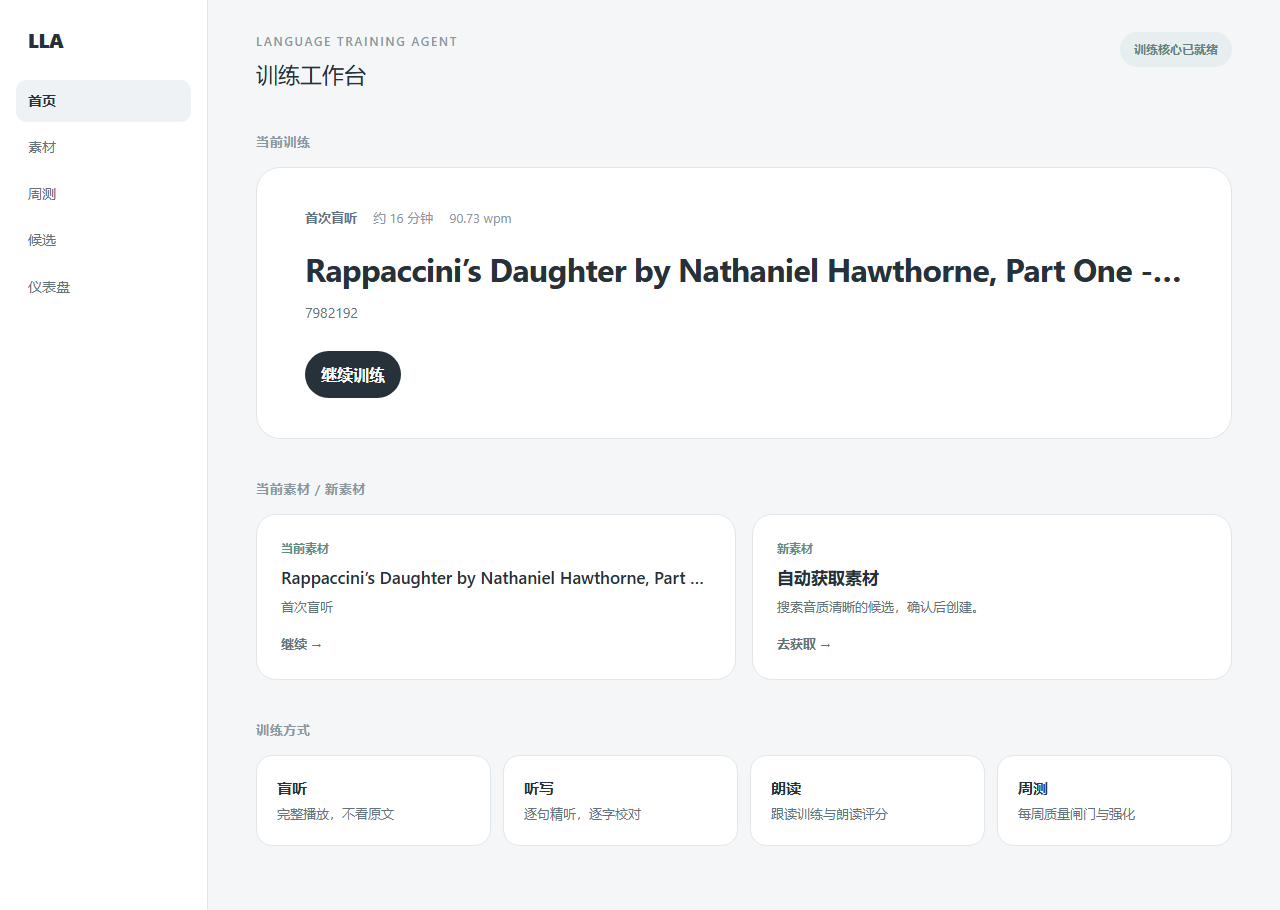
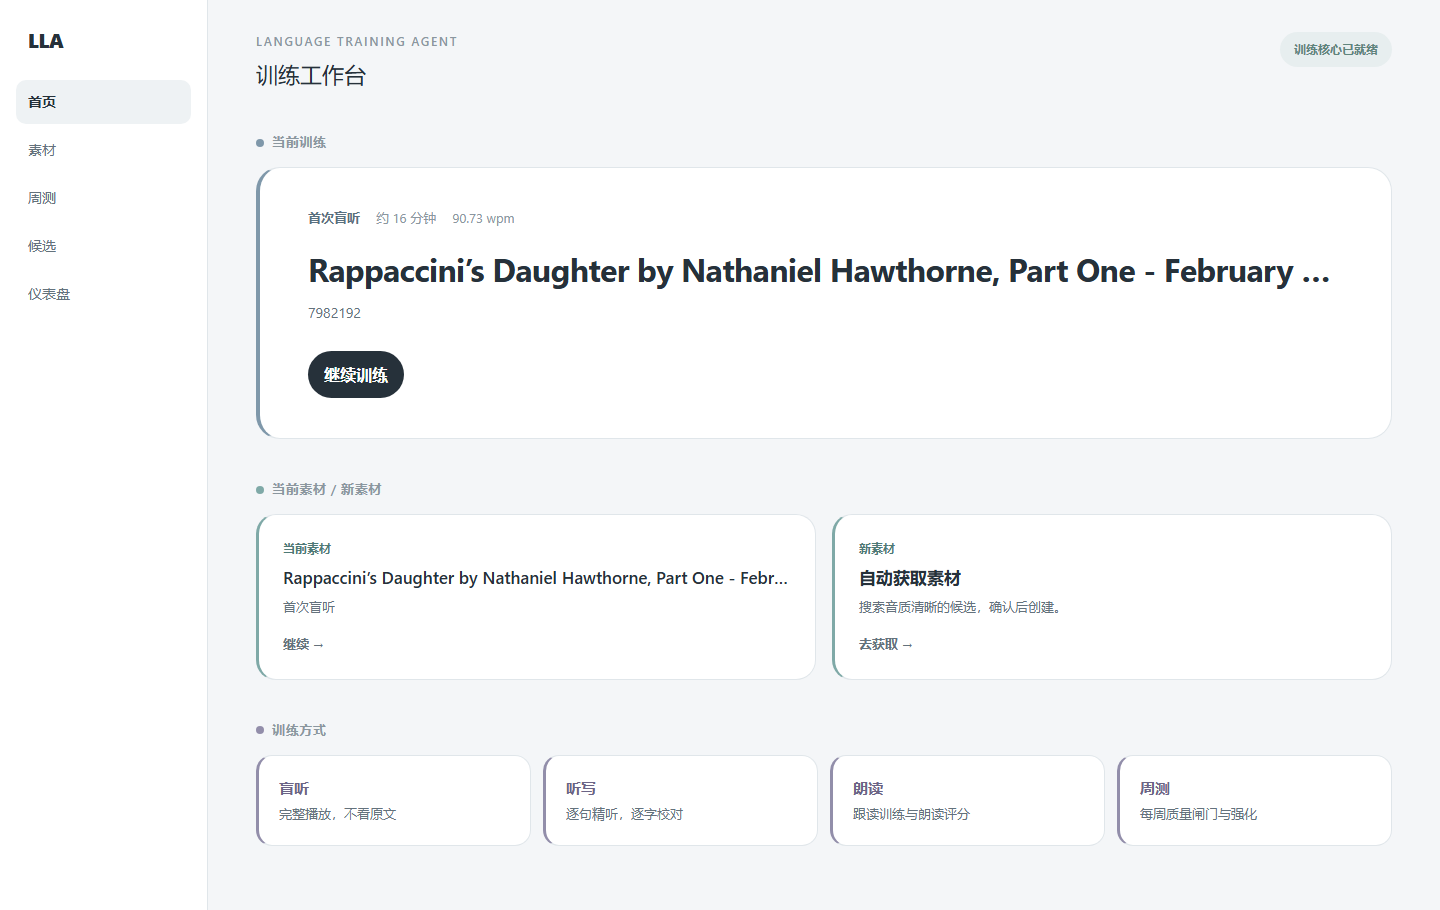
fix: apply accent color tokens, focus ring, 44px targets, loading/error states, e2e regression

diff --git a/frontend/src/styles.css b/frontend/src/styles.css
@@ -11,13 +11,14 @@
 * { box-sizing: border-box; }
 body { margin: 0; min-width: 320px; }
 h1, h2, h3, p { margin-top: 0; }
+:focus-visible { outline: 2px solid #607b8a; outline-offset: 2px; }
 
 /* ---- App shell ---- */
 .app-shell { display: flex; min-height: 100vh; }
 .sidebar { width: 208px; flex-shrink: 0; background: #fff; border-right: 1px solid #e0e6ea; display: flex; flex-direction: column; padding: 24px 16px; }
 .brand { padding: 0 12px 24px; font-size: 20px; font-weight: 800; letter-spacing: -.02em; color: #26313a; }
 .sidebar-nav { display: flex; flex-direction: column; gap: 4px; }
-.sidebar-nav button { text-align: left; padding: 10px 12px; border: 0; border-radius: 10px; background: transparent; color: #64727c; cursor: pointer; font: inherit; font-size: 14px; }
+.sidebar-nav button { text-align: left; min-height: 44px; padding: 10px 12px; border: 0; border-radius: 10px; background: transparent; color: #64727c; cursor: pointer; font: inherit; font-size: 14px; }
 .sidebar-nav button:hover { background: #eef2f4; }
 .sidebar-nav button.active { background: #eef2f4; color: #26313a; font-weight: 600; }
 .main-content { flex: 1; min-width: 0; padding: 32px 48px 64px; }
@@ -31,12 +32,16 @@ h1, h2, h3, p { margin-top: 0; }
 
 /* ---- Homepage three sections ---- */
 .home-section { margin-top: 40px; }
-.section-label { margin: 0 0 14px; color: #8b979f; font-size: 13px; font-weight: 600; letter-spacing: .05em; }
+.section-label { display: flex; align-items: center; gap: 8px; margin: 0 0 14px; color: #8b979f; font-size: 13px; font-weight: 600; letter-spacing: .05em; }
+.section-label::before { content: ''; width: 8px; height: 8px; border-radius: 50%; background: #c8d0d6; }
+.accent-training .section-label::before { background: #7f98aa; }
+.accent-material .section-label::before { background: #7fa9a7; }
+.accent-modes .section-label::before { background: #928eaa; }
 
 /* Current training (visual center) — accent blueGray #7f98aa */
-.training-hero { padding: 40px 48px; border: 1px solid #e0e6ea; border-radius: 24px; background: #fff; }
+.training-hero { padding: 40px 48px; border: 1px solid #e0e6ea; border-left: 4px solid #7f98aa; border-radius: 24px; background: #fff; }
 .training-hero .hero-meta { display: flex; align-items: center; gap: 16px; flex-wrap: wrap; margin-bottom: 14px; }
-.training-hero .hero-state { color: #5f7486; font-size: 13px; font-weight: 700; }
+.training-hero .hero-state { color: #5a7080; font-size: 13px; font-weight: 700; }
 .training-hero .hero-muted { color: #8b979f; font-size: 13px; }
 .training-hero h2 { margin: 0 0 8px; font-size: clamp(26px, 3vw, 32px); font-weight: 700; letter-spacing: -.02em; color: #26313a; white-space: nowrap; overflow: hidden; text-overflow: ellipsis; }
 .training-hero .hero-context { margin: 0 0 26px; color: #64727c; font-size: 14px; }
@@ -45,9 +50,9 @@ h1, h2, h3, p { margin-top: 0; }
 
 /* Material section — accent cyanGray #7fa9a7 */
 .material-cards { display: grid; grid-template-columns: repeat(2, minmax(0, 1fr)); gap: 16px; }
-.material-card { display: grid; gap: 6px; padding: 24px; border: 1px solid #e0e6ea; border-radius: 20px; background: #fff; text-align: left; cursor: pointer; font: inherit; color: #26313a; }
-.material-card:hover { background: #fbfcfd; }
-.material-card .card-tag { color: #618c88; font-size: 12px; font-weight: 700; }
+.material-card { display: grid; gap: 6px; padding: 24px; border: 1px solid #e0e6ea; border-left: 3px solid #7fa9a7; border-radius: 20px; background: #fff; text-align: left; cursor: pointer; font: inherit; color: #26313a; }
+.material-card:hover { background: #eff5f4; }
+.material-card .card-tag { color: #4f7a77; font-size: 12px; font-weight: 700; }
 .material-card strong { font-size: 17px; font-weight: 600; white-space: nowrap; overflow: hidden; text-overflow: ellipsis; }
 .material-card p { margin: 0; color: #64727c; font-size: 13px; }
 .material-card .card-action { margin-top: 10px; color: #64727c; font-size: 13px; font-weight: 600; }
@@ -56,10 +61,15 @@ h1, h2, h3, p { margin-top: 0; }
 
 /* Training modes — accent purpleGray #928eaa, lightweight cards */
 .mode-cards { display: grid; grid-template-columns: repeat(4, minmax(0, 1fr)); gap: 12px; }
-.mode-card { display: grid; gap: 4px; padding: 20px; border: 1px solid #e0e6ea; border-radius: 16px; background: #fff; text-align: left; cursor: pointer; font: inherit; color: #26313a; }
-.mode-card:hover { background: #eef2f4; }
-.mode-card strong { font-size: 15px; font-weight: 600; }
+.mode-card { display: grid; gap: 4px; padding: 20px; border: 1px solid #e0e6ea; border-left: 3px solid #928eaa; border-radius: 16px; background: #fff; text-align: left; cursor: pointer; font: inherit; color: #26313a; }
+.mode-card:hover { background: #f2f1f5; }
+.mode-card strong { font-size: 15px; font-weight: 600; color: #6b6486; }
 .mode-card p { margin: 0; color: #64727c; font-size: 13px; }
+
+.skeleton-block { display: grid; gap: 16px; }
+.sk-line { height: 14px; border-radius: 7px; background: #eef2f4; }
+.sk-line.sk-short { width: 30%; }
+.sk-line.sk-wide { width: 70%; height: 22px; }
 
 /* ---- Shared section heading (non-home views) ---- */
 .section-heading { display: flex; align-items: flex-end; justify-content: space-between; gap: 16px; }
@@ -96,6 +106,8 @@ h1, h2, h3, p { margin-top: 0; }
 .import-form { display: grid; gap: 10px; margin-top: 16px; padding: 18px; border: 1px solid #dce2e7; border-radius: 16px; background: #fff; }
 .import-form textarea { min-height: 130px; resize: vertical; }
 .notice { margin: 16px 0; padding: 12px 14px; border-radius: 10px; background: #f3e8d2; color: #7a6543; }
+.notice.error { background: #f1e6e7; color: #7d5357; }
+.link-btn { border: 0; background: transparent; color: inherit; cursor: pointer; text-decoration: underline; font: inherit; padding: 0 0 0 6px; }
 .result-list { margin-top: 24px; }
 .result-row { display: flex; width: 100%; align-items: center; justify-content: space-between; gap: 16px; padding: 18px 0; border: 0; border-top: 1px solid #dce2e7; background: transparent; color: #26313a; text-align: left; cursor: pointer; font: inherit; }
 .result-row p, .muted { margin: 5px 0 0; color: #8b979f; font-size: 13px; }

diff --git a/frontend/src/App.jsx b/frontend/src/App.jsx
@@ -61,10 +61,12 @@ function App() {
   const [comprehension, setComprehension] = useState({ rating: '30–50%', summary: '' })
   const [dictationContext, setDictationContext] = useState(null)
   const [firstListenPlayed, setFirstListenPlayed] = useState(false)
+  const [loading, setLoading] = useState(true)
 
   const refresh = () => fetch('/api/materials')
     .then((response) => response.json())
-    .then((payload) => { setMaterials(payload) })
+    .then((payload) => { setMaterials(payload); setLoading(false) })
+    .catch(() => setLoading(false))
 
   useEffect(() => {
     fetch('/api/health')
@@ -109,6 +111,17 @@ function App() {
     if (key === 'weekly') { setView('weekly'); return }
     if (currentMaterial) openMaterial(currentMaterial.material_id)
     else setView('materials')
+  }
+
+  const retry = () => {
+    setLoading(true)
+    fetch('/api/health')
+      .then((response) => response.json())
+      .then((payload) => {
+        setHealth(payload.status === 'ok' ? '训练核心已就绪' : '训练核心异常')
+        return refresh()
+      })
+      .catch(() => { setHealth('后端尚未启动'); setLoading(false) })
   }
 
   const refreshDictationContext = () => {
@@ -339,9 +352,16 @@ function App() {
         </header>
 
         {view === 'home' && <>
-          <section className="home-section">
+          {health === '后端尚未启动' && <div className="notice error">后端尚未启动，无法加载训练数据。<button className="link-btn" onClick={retry}>重试</button></div>}
+          <section className="home-section accent-training">
             <p className="section-label">当前训练</p>
-            {currentMaterial ? (
+            {loading ? (
+              <div className="training-hero skeleton-block">
+                <div className="sk-line sk-short"></div>
+                <div className="sk-line sk-wide"></div>
+                <div className="sk-line"></div>
+              </div>
+            ) : currentMaterial ? (
               <div className="training-hero">
                 <div className="hero-meta">
                   <span className="hero-state">{stateText(currentMaterial.current_state)}</span>
@@ -363,7 +383,7 @@ function App() {
             )}
           </section>
 
-          <section className="home-section">
+          <section className="home-section accent-material">
             <p className="section-label">当前素材 / 新素材</p>
             <div className="material-cards">
               {currentMaterial ? (
@@ -389,7 +409,7 @@ function App() {
             </div>
           </section>
 
-          <section className="home-section">
+          <section className="home-section accent-modes">
             <p className="section-label">训练方式</p>
             <div className="mode-cards">
               {TRAINING_MODES.map((mode) => (

diff --git a/docs/Homepage_UI_V1_Acceptance.md b/docs/Homepage_UI_V1_Acceptance.md
@@ -2,44 +2,61 @@
 
 - **Spec:** `docs/Homepage_UI_V1_Development_Spec.md`（唯一权威来源，2026-08-28）
 - **Scope:** 仅首页 UI；不改业务逻辑、API、数据模型或状态机（Spec §10）
-- **Evidence types:** DOM 结构（自动）、截图（人工）、代码 diff、测试基线
+- **Evidence types:** DOM 结构（自动）、计算样式（自动）、截图（人工）、隔离库功能回归（自动）、测试基线
 
-## 1. 交付检查矩阵（Spec §12）
+## 1. 第二次独立验收问题整改
+
+| 验收问题 | 严重度 | 整改 | 证据 |
+|---|---|---|---|
+| P0-06 三色只写注释、未应用 | 必须改正 | 蓝灰/青灰/紫灰落到分区色条、标签圆点、深色文字与 hover 表面 | 计算样式：hero `rgb(127,152,170)`、material `rgb(127,169,167)`、mode `rgb(146,142,170)`、label dot `rgb(127,152,170)` |
+| P0-09/P0-10 仅入口级验证 | 必须改正 | 隔离临时库端到端回归 FR-01/02/03 | 见 §3 |
+| P1-02 无 focus ring | 应当改正 | 全局 `:focus-visible { outline: 2px solid #607b8a; outline-offset: 2px }` | styles.css |
+| P1-07 侧栏按钮 42.4px | 应当改正 | `.sidebar-nav button { min-height: 44px }` | 计算样式 `44px` |
+| P1-01/P1-06 缺 Loading/Error | 应当改正 | 首页骨架 Loading + 后端不可用错误态（含重试） | App.jsx `loading`/`retry`；`.skeleton-block`/`.notice.error` |
+| 截图尺寸不符 | 建议 | 重拍 1440×900 / 1024×768 / 390×844 | `docs/screenshots/home-{desktop,medium,narrow}.png` |
+
+## 2. 交付检查矩阵（Spec §12）
 
 | # | 检查项 | 结果 | 证据 |
 |---|---|---|---|
-| 1 | 三个功能分区顺序正确，当前训练视觉权重最高 | ✅ | DOM：`.section-label` 顺序 = 当前训练 → 当前素材/新素材 → 训练方式；`.training-hero` 为唯一大卡片（40/48px 内边距、24px 圆角、白底） |
-| 2 | Quote 及占位空间完全移除 | ✅ | DOM：`.hero` / `.recommendation` / `.grid` 计数 = 0 |
-| 3 | 页面标题已弱化 | ✅ | `.page-title` 22px / weight 500，低于当前训练标题（clamp 26–32px / 700） |
-| 4 | 左侧导航窄 | ✅ | `.sidebar` width 208px（192–224px 范围内），导航 5 项 |
-| 5 | 三低饱和冷色、明度接近、无对立色 | ✅ | `#7f98aa`（当前训练蓝灰）/ `#7fa9a7`（素材青灰）/ `#928eaa`（训练方式紫灰）；页底 `#f4f6f8` |
-| 6 | 训练方式卡轻量 | ✅ | `.mode-card` 弱边框 1px `#e0e6ea`、无阴影、hover 仅换底 |
-| 7 | 空/加载/错误/选中/禁用状态一致 | ⚠ 首页部分 | 首页空态 `empty-hero` / 选中 `sidebar .active` 已统一；训练页沿用已验收状态色（§10 不重构） |
-| 8 | 桌面/中等/窄屏无溢出 | ✅ | Playwright 截图三档（见 §2） |
-| 9 | 业务逻辑/API/数据/埋点未改 | ✅ | 后端推荐端点已回退；`pytest` 106/106 基线不变 |
-| 10 | 提供实现截图 | ✅ | `docs/screenshots/home-{desktop,medium,narrow}.png` |
+| 1 | 三功能分区顺序正确、当前训练权重最高 | ✅ | DOM 顺序；`.training-hero` 大卡 40/48px 内边距 |
+| 2 | Quote 完全移除 | ✅ | `.hero`/`.recommendation`/`.grid` 计数 0，无 blockquote |
+| 3 | 页面标题弱化 | ✅ | `.page-title` 22px/500，低于 hero 标题 32px/700 |
+| 4 | 左侧导航窄 | ✅ | `.sidebar` 208px |
+| 5 | 三低饱和冷色实际应用 | ✅ | 计算样式见 §1 |
+| 6 | 训练方式卡轻量 | ✅ | 1px 弱边框、无阴影、hover 浅紫灰面 |
+| 7 | 状态一致 | ✅ | 默认/hover/active/empty + 骨架 Loading + Error 恢复态 |
+| 8 | 三档宽度无溢出 | ✅ | 1440/1024/390 `overflow=False` |
+| 9 | 业务逻辑/API 未改 | ✅ | `/api/home/recommendation` 已删；`pytest` 106/106 |
+| 10 | 截图证据 | ✅ | 三视口 + 功能回归截图 |
 
-## 2. 截图证据（人工验收）
+## 3. 隔离库功能回归（P0-09/10 完整结果）
 
-| 视口 | 文件 | 尺寸 |
+在独立临时数据库 + 8001 端口跑通（不污染主库）：
+
+| 用例 | 结果 | 证据 |
 |---|---|---|
-| 桌面 | `docs/screenshots/home-desktop.png` | 1280×800 |
-| 中等 | `docs/screenshots/home-medium.png` | 900×800 |
-| 窄屏 | `docs/screenshots/home-narrow.png` | 390×844 |
+| FR-02 无素材空状态 | ✅ | `empty-hero` 存在，文案「还没有开始训练」 |
+| FR-03 当前素材显示 | ✅ | 创建后 hero 标题/状态「首次盲听」/素材卡正确 |
+| FR-01 继续当前训练（完整） | ✅ | 状态推进「首次盲听→理解检查→听写 Part 1」，点击「继续训练」进入训练页且听写面板渲染 |
 
-## 3. 本次纠正（相对前次偏离）
+截图：`docs/screenshots/home-e2e-{empty,current,training}.png`。
 
-| 项 | 前次（已回退） | 本次 |
+## 4. 仍待独立验收确认
+
+- [ ] FR-04 新素材完整创建/选择（候选素材依赖外网 VOA/BBC，需真实验收）
+- [ ] FR-06 不可用训练方式（当前数据无此状态）
+- [ ] FR-10 权限/受限请求错误反馈
+- [ ] 完整听写/朗读评分流程（后端 106 测试已覆盖，前端面板渲染已验证）
+- [ ] 真实触控设备误触检查
+
+## 5. 截图证据清单
+
+| 文件 | 视口 | 用途 |
 |---|---|---|
-| 首页结构 | 推荐梯 + 统计网格 | 三段式：当前训练 → 当前素材/新素材 → 训练方式 |
-| Quote | 保留 hero 大字标语 | 移除 |
-| 顶部标题 | 48px Hero 标题 | 22px 弱标题 |
-| 侧栏 | 无 | 208px 窄侧栏 |
-| 色系 | 绿/紫/青/米杂色 | 三低饱和冷色 + 冷灰底 |
-| 后端 | 新增 `/api/home/recommendation` | 回退，纯前端，复用现有端点 |
-
-## 4. 待人工确认
-
-- [ ] 三档截图视觉复核（冷色、留白、层级、无溢出）
-- [ ] 窄屏触控目标 ≥ 44px
-- [ ] 键盘焦点可见（focus ring 2px）
+| `home-desktop.png` | 1440×900 | 桌面布局 |
+| `home-medium.png` | 1024×768 | 中等宽度 |
+| `home-narrow.png` | 390×844 | 窄屏 |
+| `home-e2e-empty.png` | 1440×900 | 空状态 |
+| `home-e2e-current.png` | 1440×900 | 当前训练/素材 |
+| `home-e2e-training.png` | 1440×900 | 继续训练进入听写面板 |
